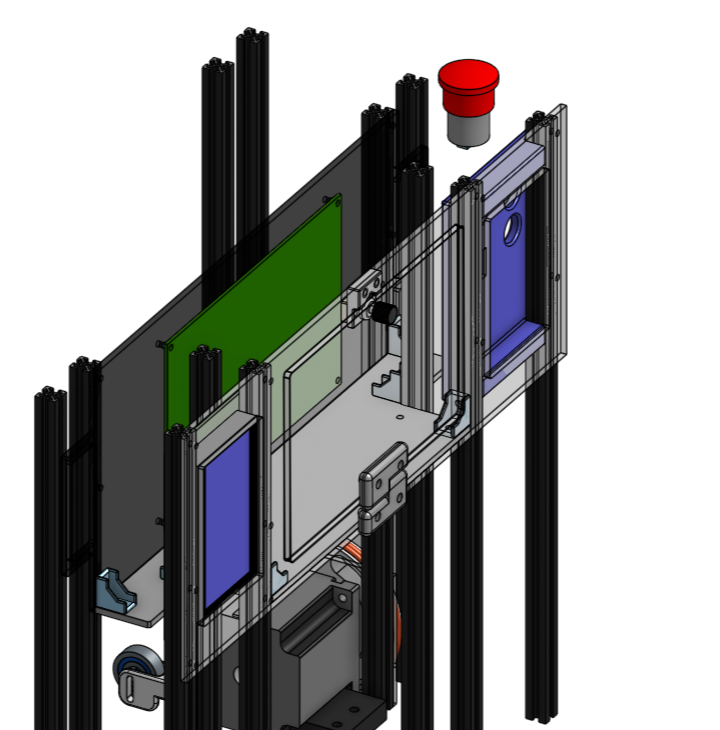
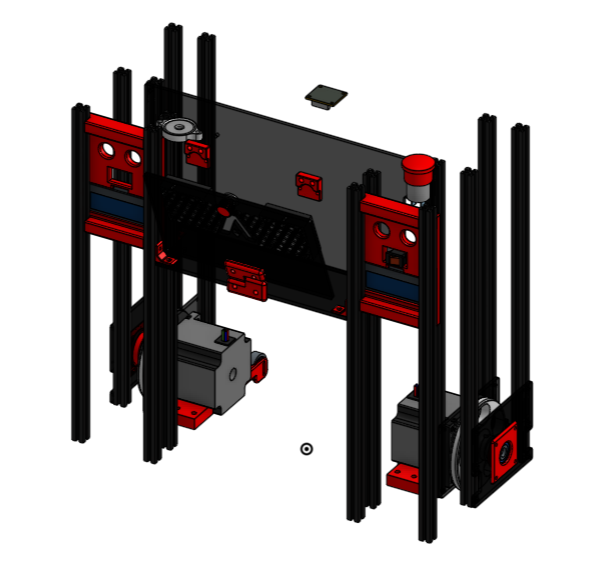
carter

diff --git a/docs/Robot/Meca/La_conception_du_chassis.md b/docs/Robot/Meca/La_conception_du_chassis.md
@@ -166,6 +166,8 @@ Il offre plusieurs avantages majeurs :
 
 En résumé, le carter est une composante indispensable pour la protection, l'organisation et la fonctionnalité des éléments électroniques du robot, tout en contribuant à son apparence et à sa solidité globale.
 
+<img src="../../images/carter électronique.png" max-width="100%">
+
 ### <ins>Passage à OnShape</ins>
 
 Le passage de Solidworks à OnShape s'est fait pour plusieurs raisons pratiques :
